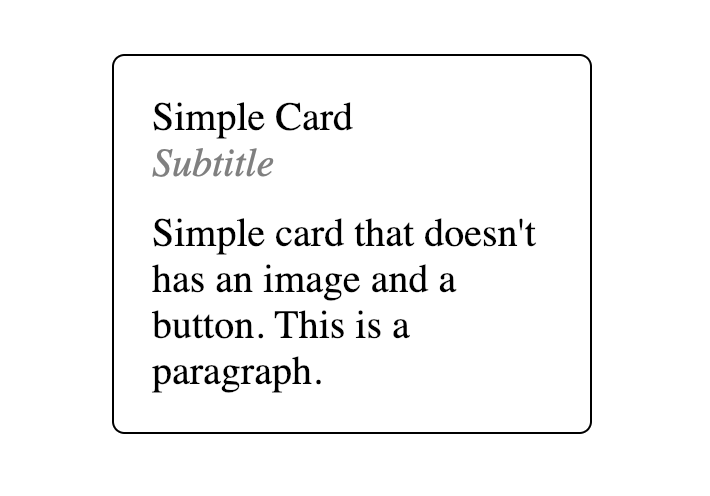
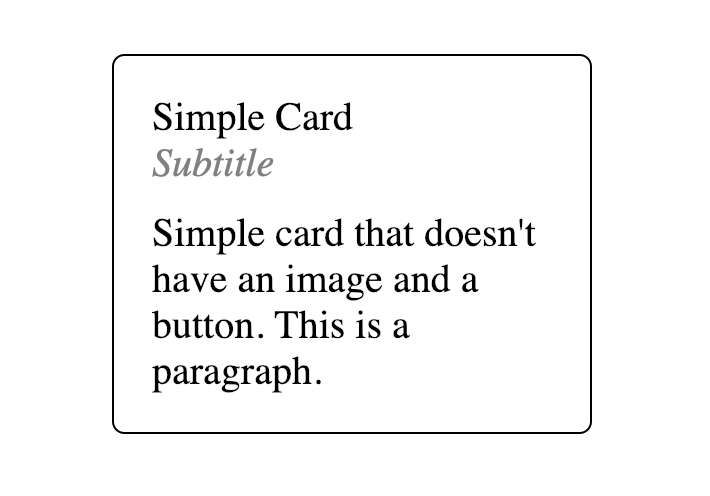
Fixed typo and image with typo

Changed region(s): [[0.2479, 0.5444, 0.6817, 0.6048]]

diff --git a/src/index.js b/src/index.js
@@ -46,7 +46,7 @@ const App = () => (
     <SimpleCard
       title="Simple Card"
       subTitle="Subtitle"
-      paragraph="Simple card that doesn't has an image and a button. This is a paragraph."
+      paragraph="Simple card that doesn't have an image and a button. This is a paragraph."
       click={() => alert("Card Click")}
     />
   </div>

diff --git a/src/lib/index.js b/src/lib/index.js
@@ -16,5 +16,4 @@ export { SimpleCard };
 
 // Check margins when missing data
 // Change classNames to include signature(a10-title, a10-description, etc.)
-// Redo screenshot of simple card with typo fixed
 // Finish README(badge URLs, License, Issue Tracker)
